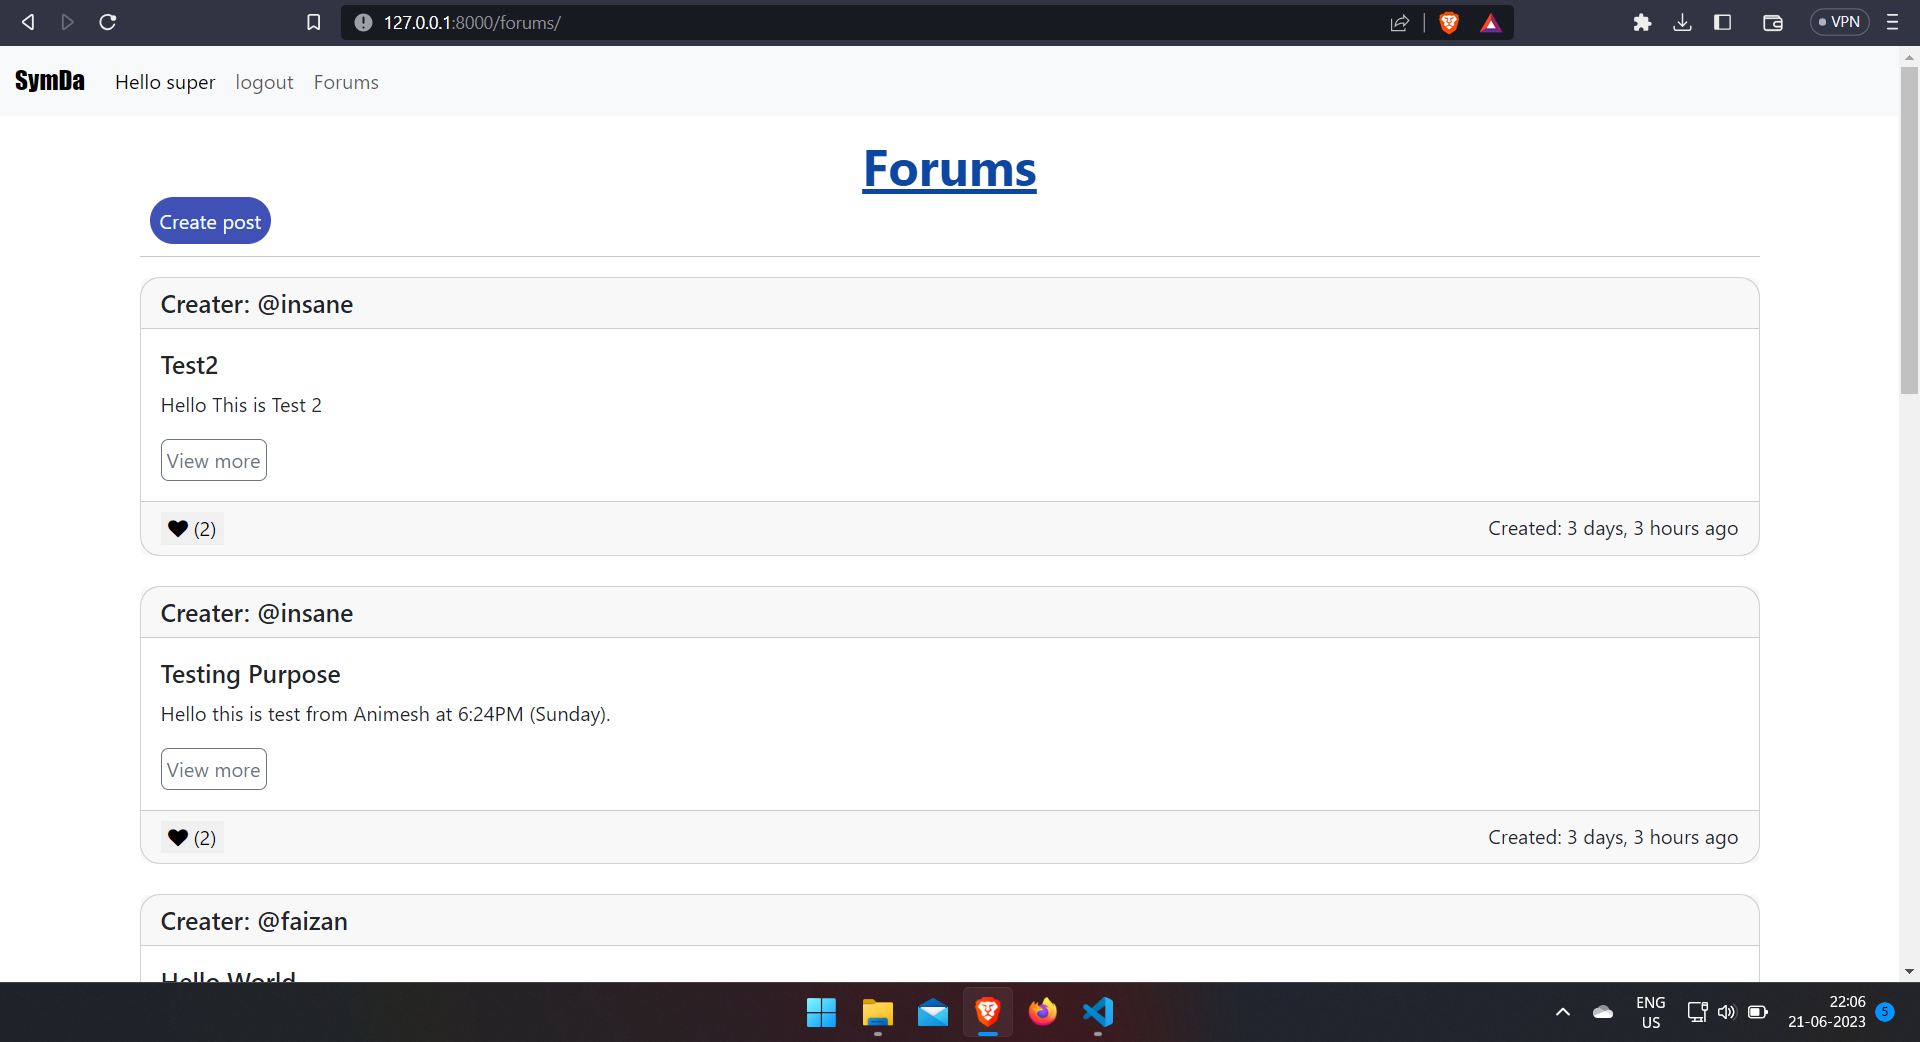
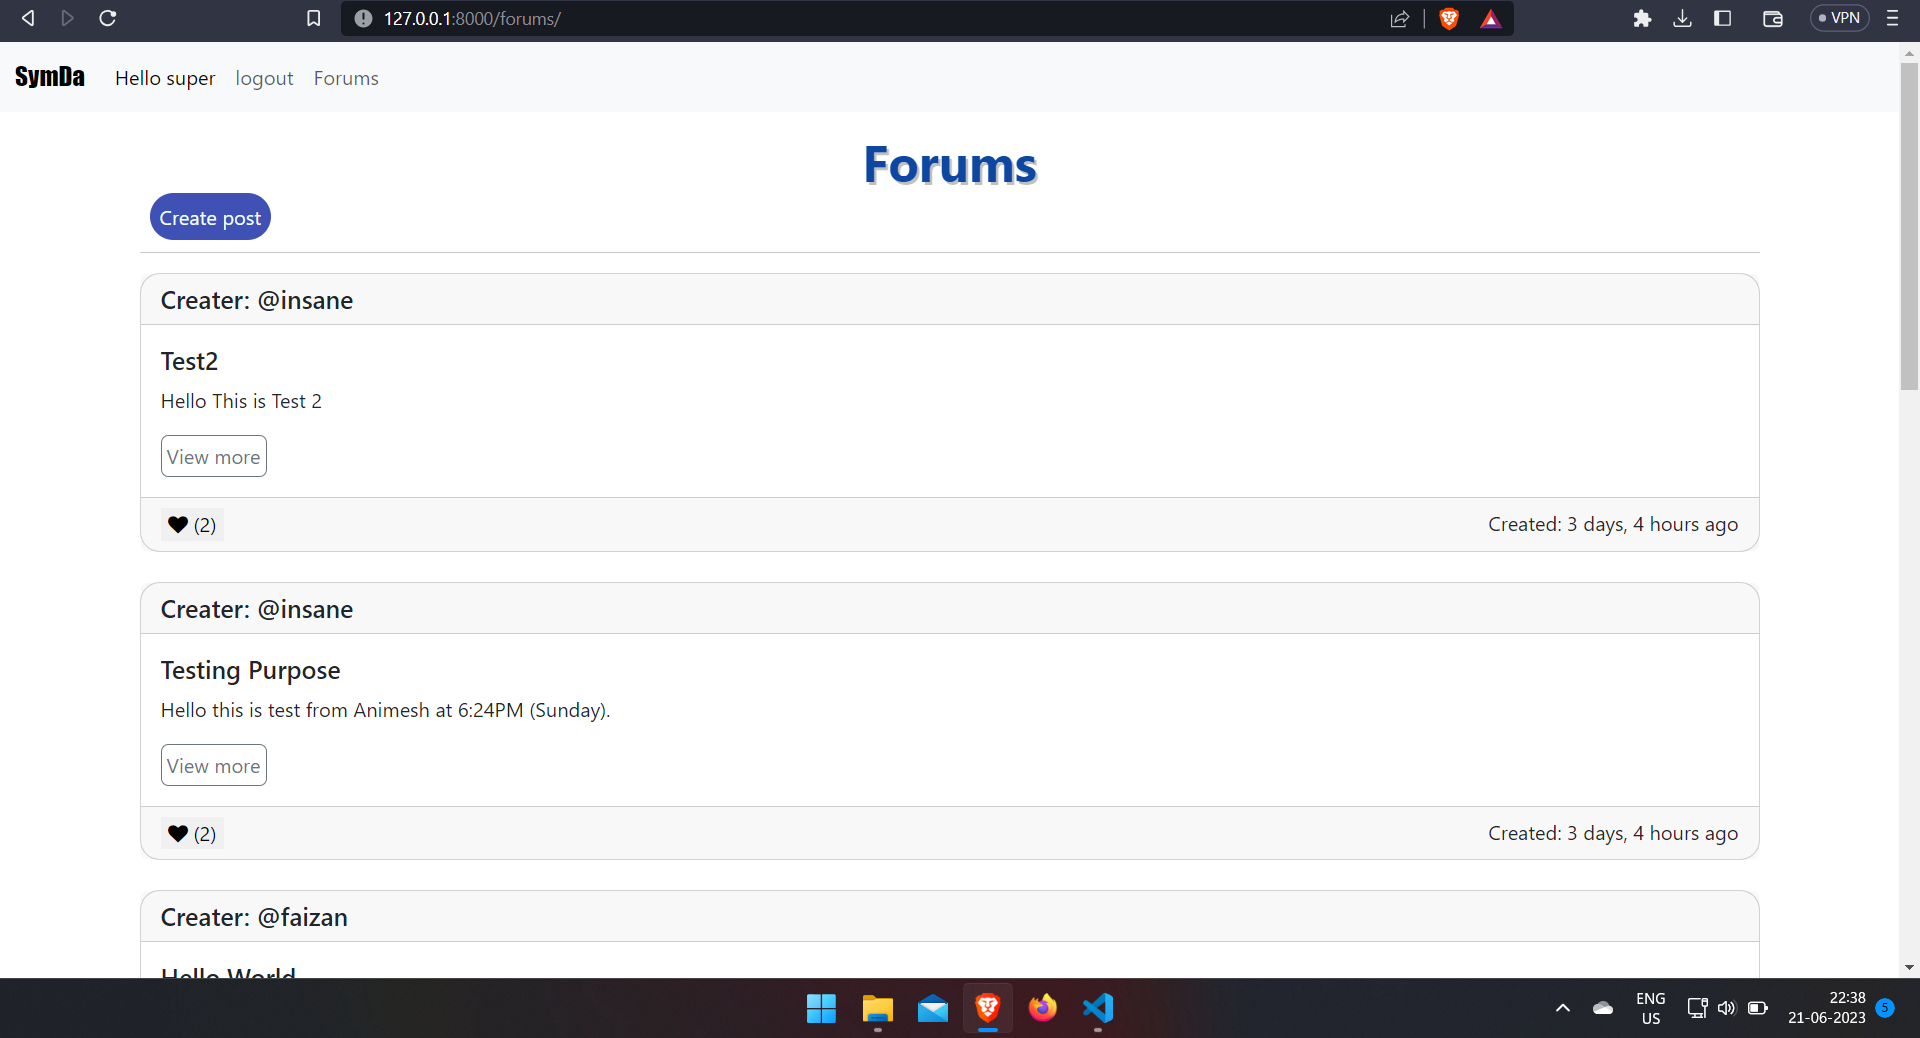
style updated

diff --git a/templates/index.html b/templates/index.html
@@ -12,6 +12,11 @@
 
   <script src="https://cdn.jsdelivr.net/npm/chart.js"></script>
 
+  <style>
+    .text-shadow {
+      text-shadow: 2px 2px rgba(0, 0, 0, 0.249);
+    }
+  </style>
 
 </head>
 
@@ -28,7 +33,7 @@
     <div class="row mt-5">
 
       <div class="col-md-4">
-        <h1 class="text-center text-decoration-underline fw-bold" style="color: #0D47A1;">SymDa</h1><br>
+        <h1 class="text-center text-shadow fw-bold" style="color: #0D47A1;">SymDa</h1><br>
 
         <h3 class="fw-bolder" style="color: #3F51B5;">About</h3>
         <p>um has been the industry's standard dummy text ever since the 1500s, when an unknown printer took a galley of

diff --git a/forum_app/templates/forum_app/forums.html b/forum_app/templates/forum_app/forums.html
@@ -17,9 +17,14 @@
     background-color: #3F51B5;
     color: azure;
   }
+
+  .text-shadow {
+    text-shadow: 2px 2px rgba(0, 0, 0, 0.249);
+  }
+
 </style>
 
-<h1 class="text-center text-decoration-underline fw-bold" style="color: #0D47A1;">Forums</h1>
+<h1 class="text-center text-shadow fw-bold" style="color: #0D47A1;">Forums</h1>
 
 <a href="{% url 'create-post' %}" class="rounded-pill p-2 m-2 create-post">Create post</a><br>
 <hr>
